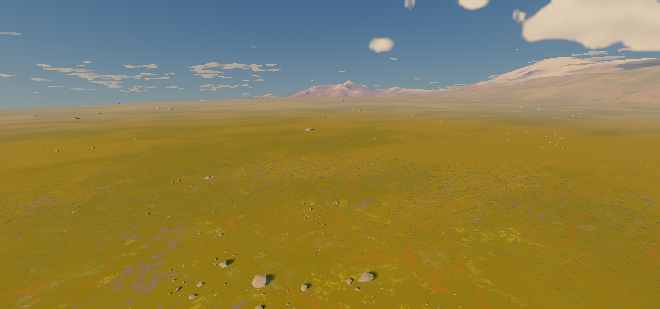
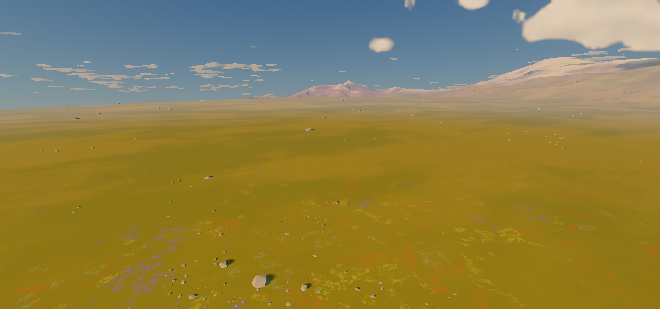
Clumps on a hillside that faces the eye: no dashes or rows in the after picture; the steppe from 120 m again; report
Claude-Session: https://claude.ai/code/session_01XG1DZ6vKJWJCvxUHNSpiWP

diff --git a/docs/briefs/far-grass-report.md b/docs/briefs/far-grass-report.md
@@ -154,6 +154,20 @@ picture; the arc is no longer something I can point to in it.
   last mean colour is held (filled once if there is none). Held over a long high flight it
   is the mean of where one climbed.
 
+- **Hillsides that face the eye** (after DONE3; `haven_ledge_ridge_n_before.png` against
+  `haven_ledge_ridge_old_after.png`, the same view): the clump field was level one-pixel
+  dashes in rows, dark and gold, on pale ground. Three changes, none proven apart (no
+  time to take each away once): (1) how squarely the ground is looked at is judged by the
+  slope's own normal as well as the world's up: the more squarely, the lower the clump and
+  the more it is the ground's colour, and it is rolled its own way; (2) ONE slope rule:
+  the tables' amount of grass now fades by the ground's own `uSlopes` (dustMax to
+  screeMin, where the shader's grass paint ends), so no clump stands on unpainted ground;
+  (3) widths more varied, and a clump under a pixel and a half tall on screen is not drawn.
+  In the after picture the meadow is one soft surface with no dashes or rows, and the
+  steppe from 120 m is smooth. **But at these pictures' 309 px most clumps beyond about
+  100 m are under that size and gone; on the phone (1 440 px) they are drawn four to five
+  times farther, and that was not looked at** (`--dsf 3.5` would show it).
+
 C to H went in as one commit, not one each. They build; the one picture taken on them is
 `haven_ledge_steppe_a30_after.png`.
 
